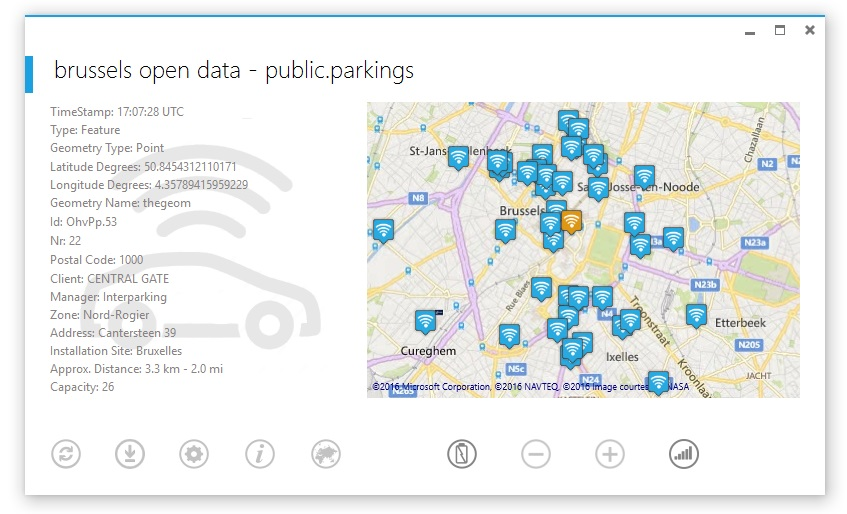
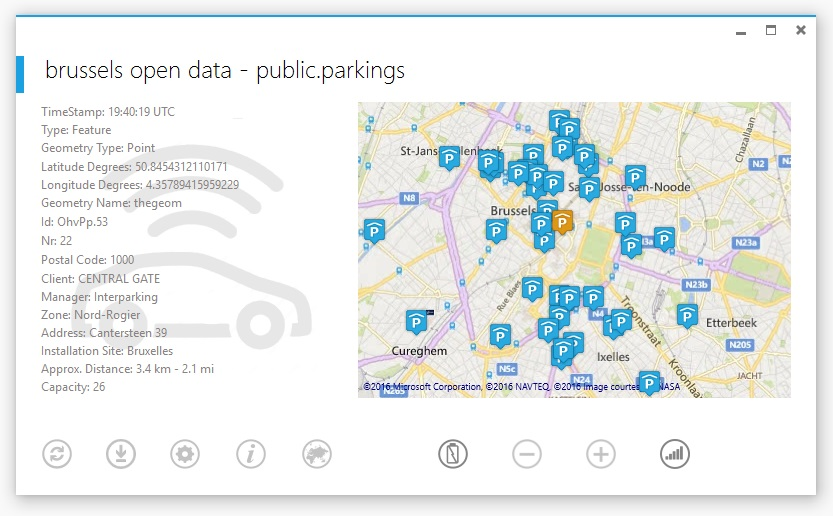
new markers

Changed region(s): [[0.0, 0.0311, 0.9988, 0.965], [0.6867, 0.8405, 0.7491, 0.9027], [0.5306, 0.1868, 0.5618, 0.2179]]

diff --git a/brussels open data - public.parkings/Properties/Resources.Designer.cs b/brussels open data - public.parkings/Properties/Resources.Designer.cs
@@ -273,16 +273,6 @@ namespace OpenData.Properties {
         /// <summary>
         ///   Looks up a localized resource of type System.Drawing.Bitmap.
         /// </summary>
-        internal static System.Drawing.Bitmap wi_fi_3 {
-            get {
-                object obj = ResourceManager.GetObject("wi_fi_3", resourceCulture);
-                return ((System.Drawing.Bitmap)(obj));
-            }
-        }
-        
-        /// <summary>
-        ///   Looks up a localized resource of type System.Drawing.Bitmap.
-        /// </summary>
         internal static System.Drawing.Bitmap wi_fi_6 {
             get {
                 object obj = ResourceManager.GetObject("wi_fi_6", resourceCulture);

diff --git a/brussels open data - public.parkings/MainWindow.xaml.cs b/brussels open data - public.parkings/MainWindow.xaml.cs
@@ -58,7 +58,7 @@ namespace OpenData
     /// Interaction logic for MainWindow.xaml
     /// </summary>
     ///
-    [Guid("204A7213-7D92-4542-805C-EE25816C4073")]
+    [Guid("204A7213-7D93-4542-805C-EE25816C4073")]
     public partial class MainWindow
     {
         #region Variables
@@ -1142,7 +1142,7 @@ namespace OpenData
                 _watcherState = false;
                 LinearProgressBar.Visibility = Visibility.Hidden;
 
-                MainMap.Zoom = 12;
+                MainMap.Zoom = 13;
                 MainMap.Position = new PointLatLng(BxlLatitude, BxlLongitude);
             }
 
